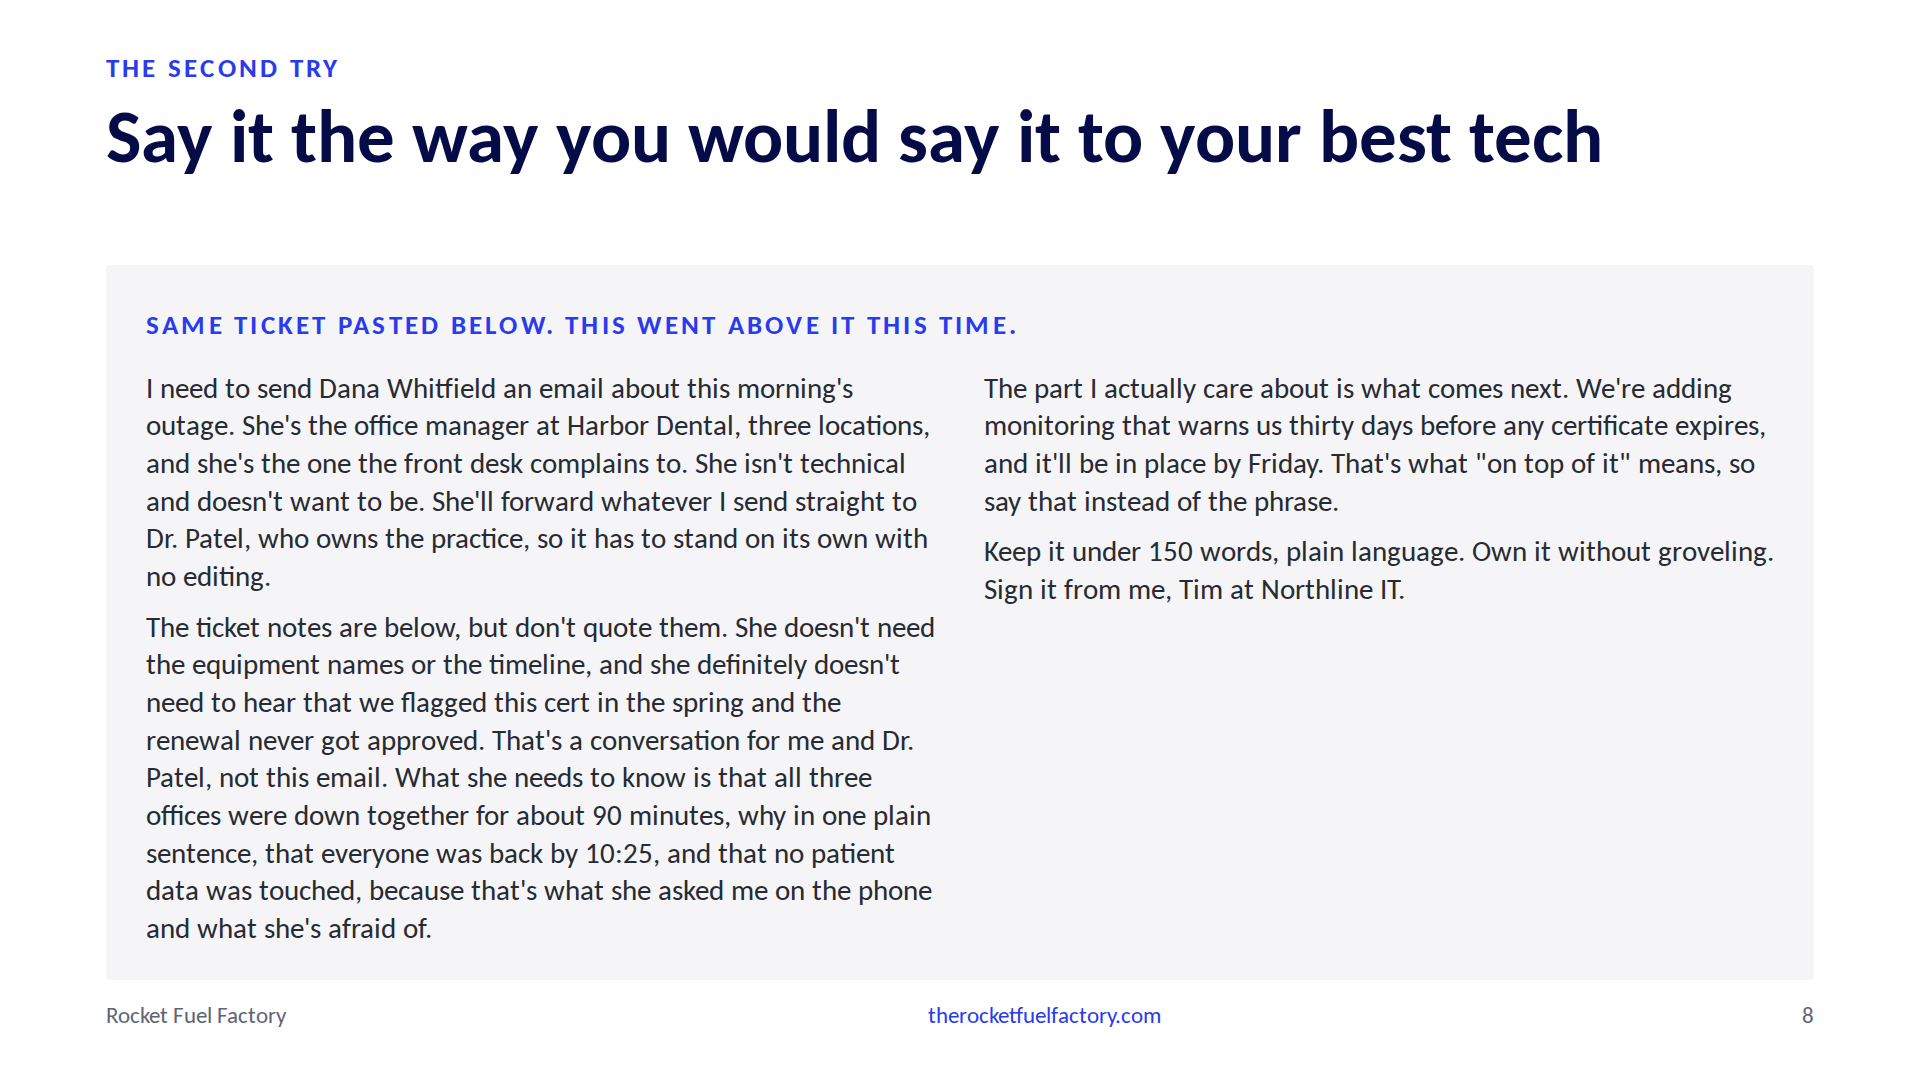
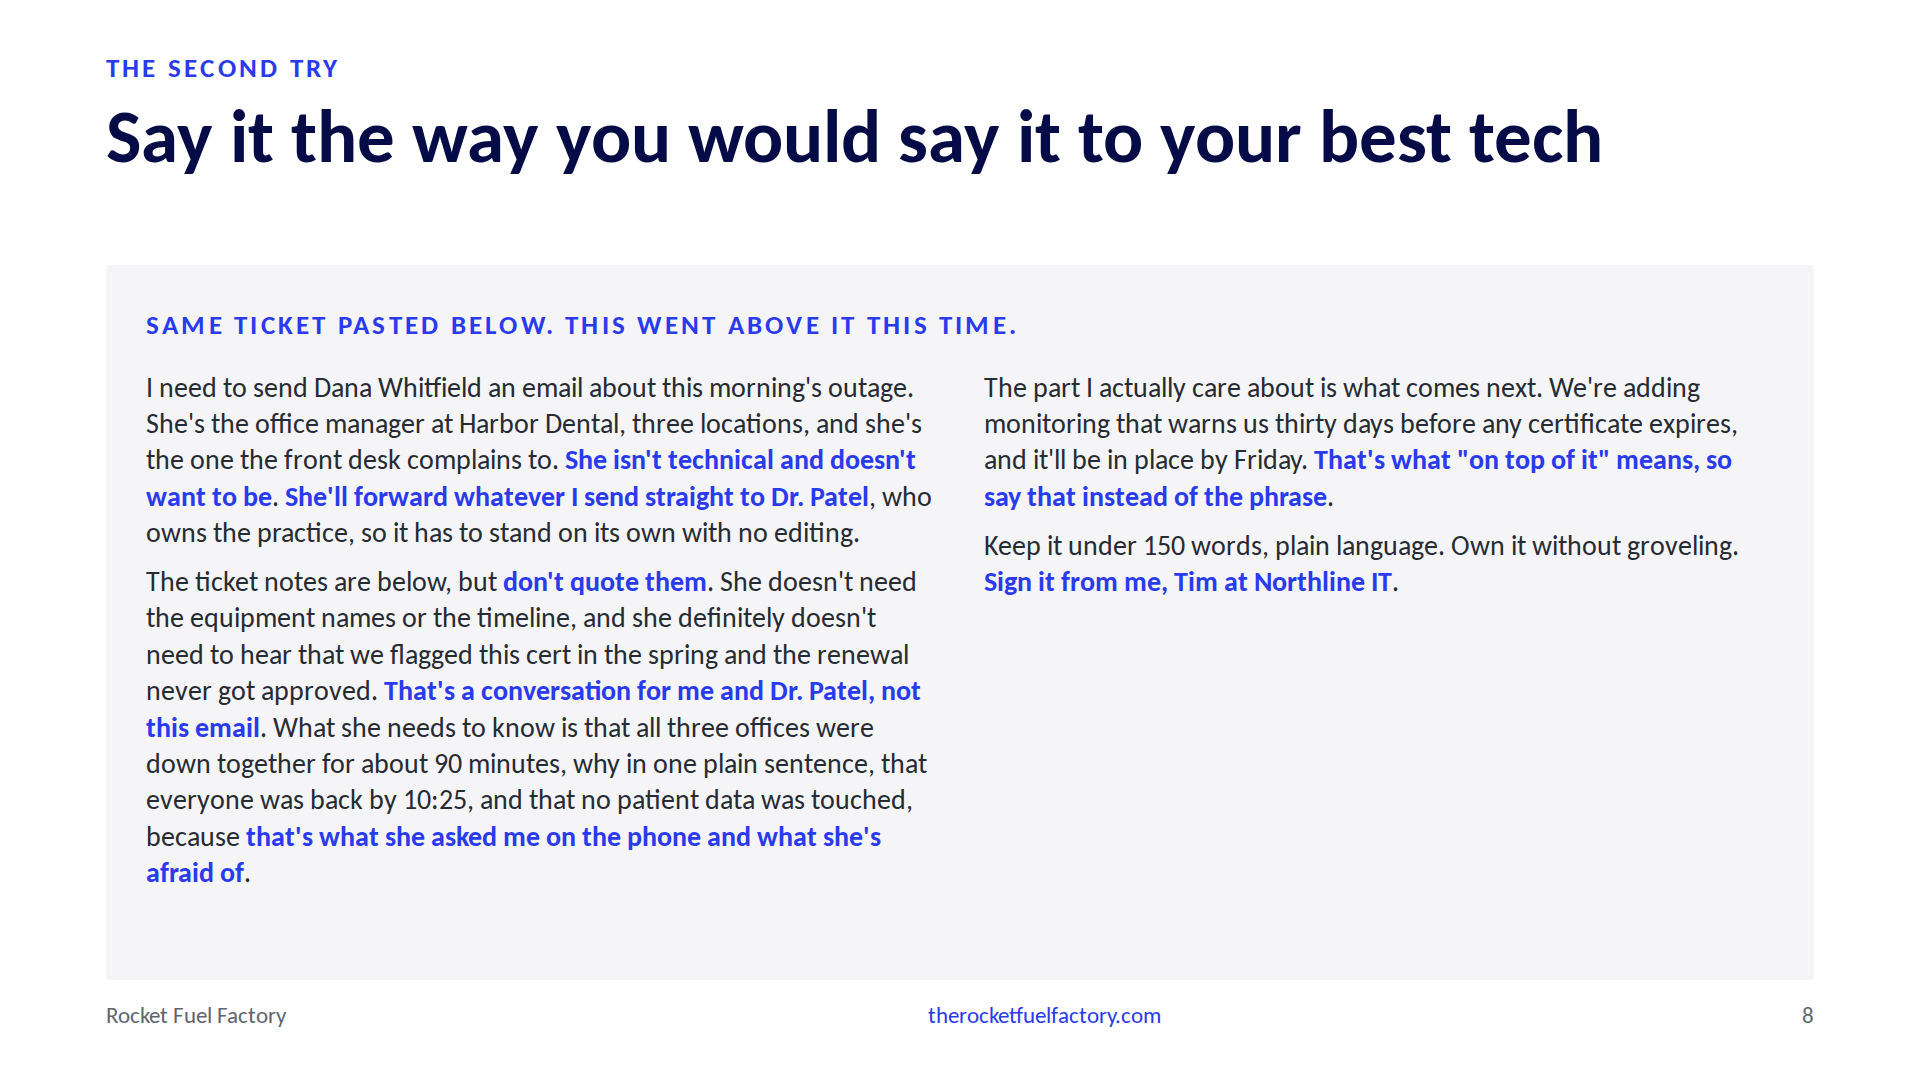
Emphasize the phrases in the second-try brief that answer the machine's four asks

Changed region(s): [[0.0625, 0.3361, 0.9375, 0.8861]]

diff --git a/src/components/layouts/PromptOutputSlide.jsx b/src/components/layouts/PromptOutputSlide.jsx
@@ -27,19 +27,42 @@ function sliceLines(text, lines) {
   return { lines: all.slice(from, to) }
 }
 
+function escapeRegExp(str) {
+  return str.replace(/[.*+?^${}()|[\]\\]/g, '\\$&')
+}
+
 // Chat UIs render **bold** as bold; literal asterisks on a slide read as noise.
-// Text is otherwise untouched.
-function renderInline(line, key) {
-  const parts = line.split(/(\*\*[^*]+\*\*)/g).filter(Boolean)
+// `emphasize` marks exact substrings in the accent color. Text is otherwise
+// untouched: the data file stays verbatim and the marks live on the slide.
+function renderInline(line, key, emphasize = [], emphasisClass = '') {
+  const boldParts = line.split(/(\*\*[^*]+\*\*)/g).filter(Boolean)
+  const emphRe = emphasize.length ? new RegExp(`(${emphasize.map(escapeRegExp).join('|')})`, 'g') : null
+  const mark = (text, k) => {
+    if (!emphRe) return <span key={k}>{text}</span>
+    const pieces = text.split(emphRe).filter(Boolean)
+    return (
+      <span key={k}>
+        {pieces.map((piece, i) =>
+          emphasize.includes(piece) ? (
+            <span key={i} className={`font-bold ${emphasisClass}`}>
+              {piece}
+            </span>
+          ) : (
+            <span key={i}>{piece}</span>
+          ),
+        )}
+      </span>
+    )
+  }
   return (
     <span key={key}>
-      {parts.map((p, i) =>
+      {boldParts.map((p, i) =>
         p.startsWith('**') && p.endsWith('**') ? (
           <strong key={i} className="font-bold text-rff-navy">
             {p.slice(2, -2)}
           </strong>
         ) : (
-          <span key={i}>{p}</span>
+          mark(p, i)
         ),
       )}
     </span>
@@ -48,7 +71,7 @@ function renderInline(line, key) {
 
 // Blank source lines become paragraph gaps (about a third of a line) instead
 // of full empty lines, which is what buys the room-legible font size.
-function Paragraphs({ lines, fontSize, columns }) {
+function Paragraphs({ lines, fontSize, columns, emphasize, emphasisClass }) {
   const paras = []
   let cur = []
   for (const l of lines) {
@@ -69,7 +92,7 @@ function Paragraphs({ lines, fontSize, columns }) {
         <p key={i} className={i === 0 ? '' : 'mt-[0.45em]'} style={{ breakInside: 'avoid' }}>
           {p.map((l, j) => (
             <span key={j}>
-              {renderInline(l, j)}
+              {renderInline(l, j, emphasize, emphasisClass)}
               {j < p.length - 1 && <br />}
             </span>
           ))}
@@ -79,7 +102,7 @@ function Paragraphs({ lines, fontSize, columns }) {
   )
 }
 
-function Panel({ label, labelClass, text, lines, fontSize, columns, style }) {
+function Panel({ label, labelClass, text, lines, fontSize, columns, style, emphasize, emphasisClass }) {
   const w = sliceLines(text, lines)
   return (
     <div
@@ -88,7 +111,7 @@ function Panel({ label, labelClass, text, lines, fontSize, columns, style }) {
     >
       <p className={`text-[27px] font-bold uppercase tracking-[0.12em] ${labelClass}`}>{label}</p>
       <div className="mt-[24px] min-h-0 flex-1 overflow-hidden">
-        <Paragraphs lines={w.lines} fontSize={fontSize} columns={columns} />
+        <Paragraphs lines={w.lines} fontSize={fontSize} columns={columns} emphasize={emphasize} emphasisClass={emphasisClass} />
       </div>
 
     </div>
@@ -112,6 +135,8 @@ export default function PromptOutputSlide({
   outputFontSize = 32,
   promptColumns = 1,
   outputColumns = 1,
+  promptEmphasize = [],
+  outputEmphasize = [],
   only,
   punchline,
   punchlineQuoted = false,
@@ -140,6 +165,8 @@ export default function PromptOutputSlide({
           fontSize={promptFontSize}
           columns={promptColumns}
           style={leftStyle}
+          emphasize={promptEmphasize}
+          emphasisClass={labelClass}
         />
       )}
       {only !== 'prompt' && (
@@ -151,6 +178,8 @@ export default function PromptOutputSlide({
           fontSize={outputFontSize}
           columns={outputColumns}
           style={rightStyle}
+          emphasize={outputEmphasize}
+          emphasisClass={labelClass}
         />
       )}
       {punchline && (

diff --git a/src/components/slides/008-DemoBrief.jsx b/src/components/slides/008-DemoBrief.jsx
@@ -13,8 +13,17 @@ export default function DemoBrief({ slideNumber }) {
       only="prompt"
       askLabel="Same ticket pasted below. This went above it this time."
       prompt={strongBrief}
-      promptFontSize={29}
+      promptFontSize={28}
       promptColumns={2}
+      promptEmphasize={[
+        "She isn't technical and doesn't want to be",
+        "She'll forward whatever I send straight to Dr. Patel",
+        "don't quote them",
+        "That's a conversation for me and Dr. Patel, not this email",
+        "that's what she asked me on the phone and what she's afraid of",
+        'That\'s what "on top of it" means, so say that instead of the phrase',
+        'Sign it from me, Tim at Northline IT',
+      ]}
     />
   )
 }
